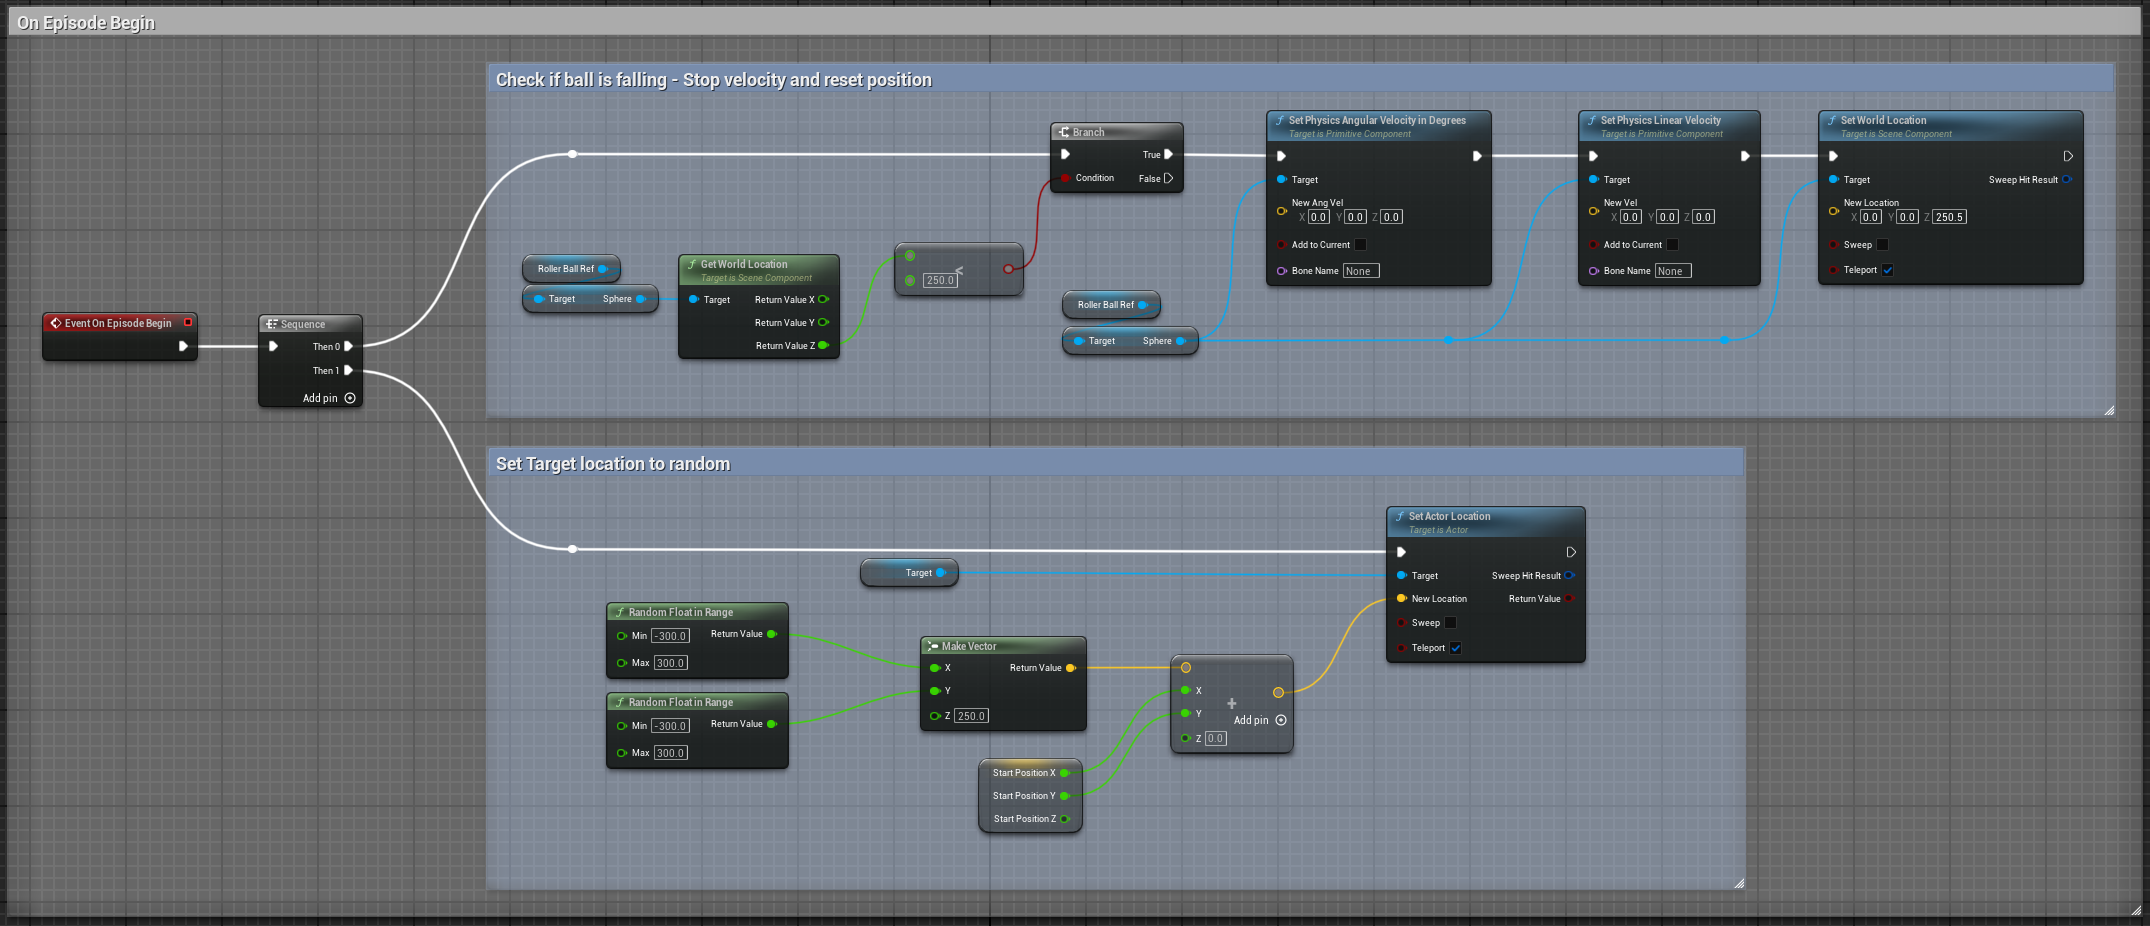
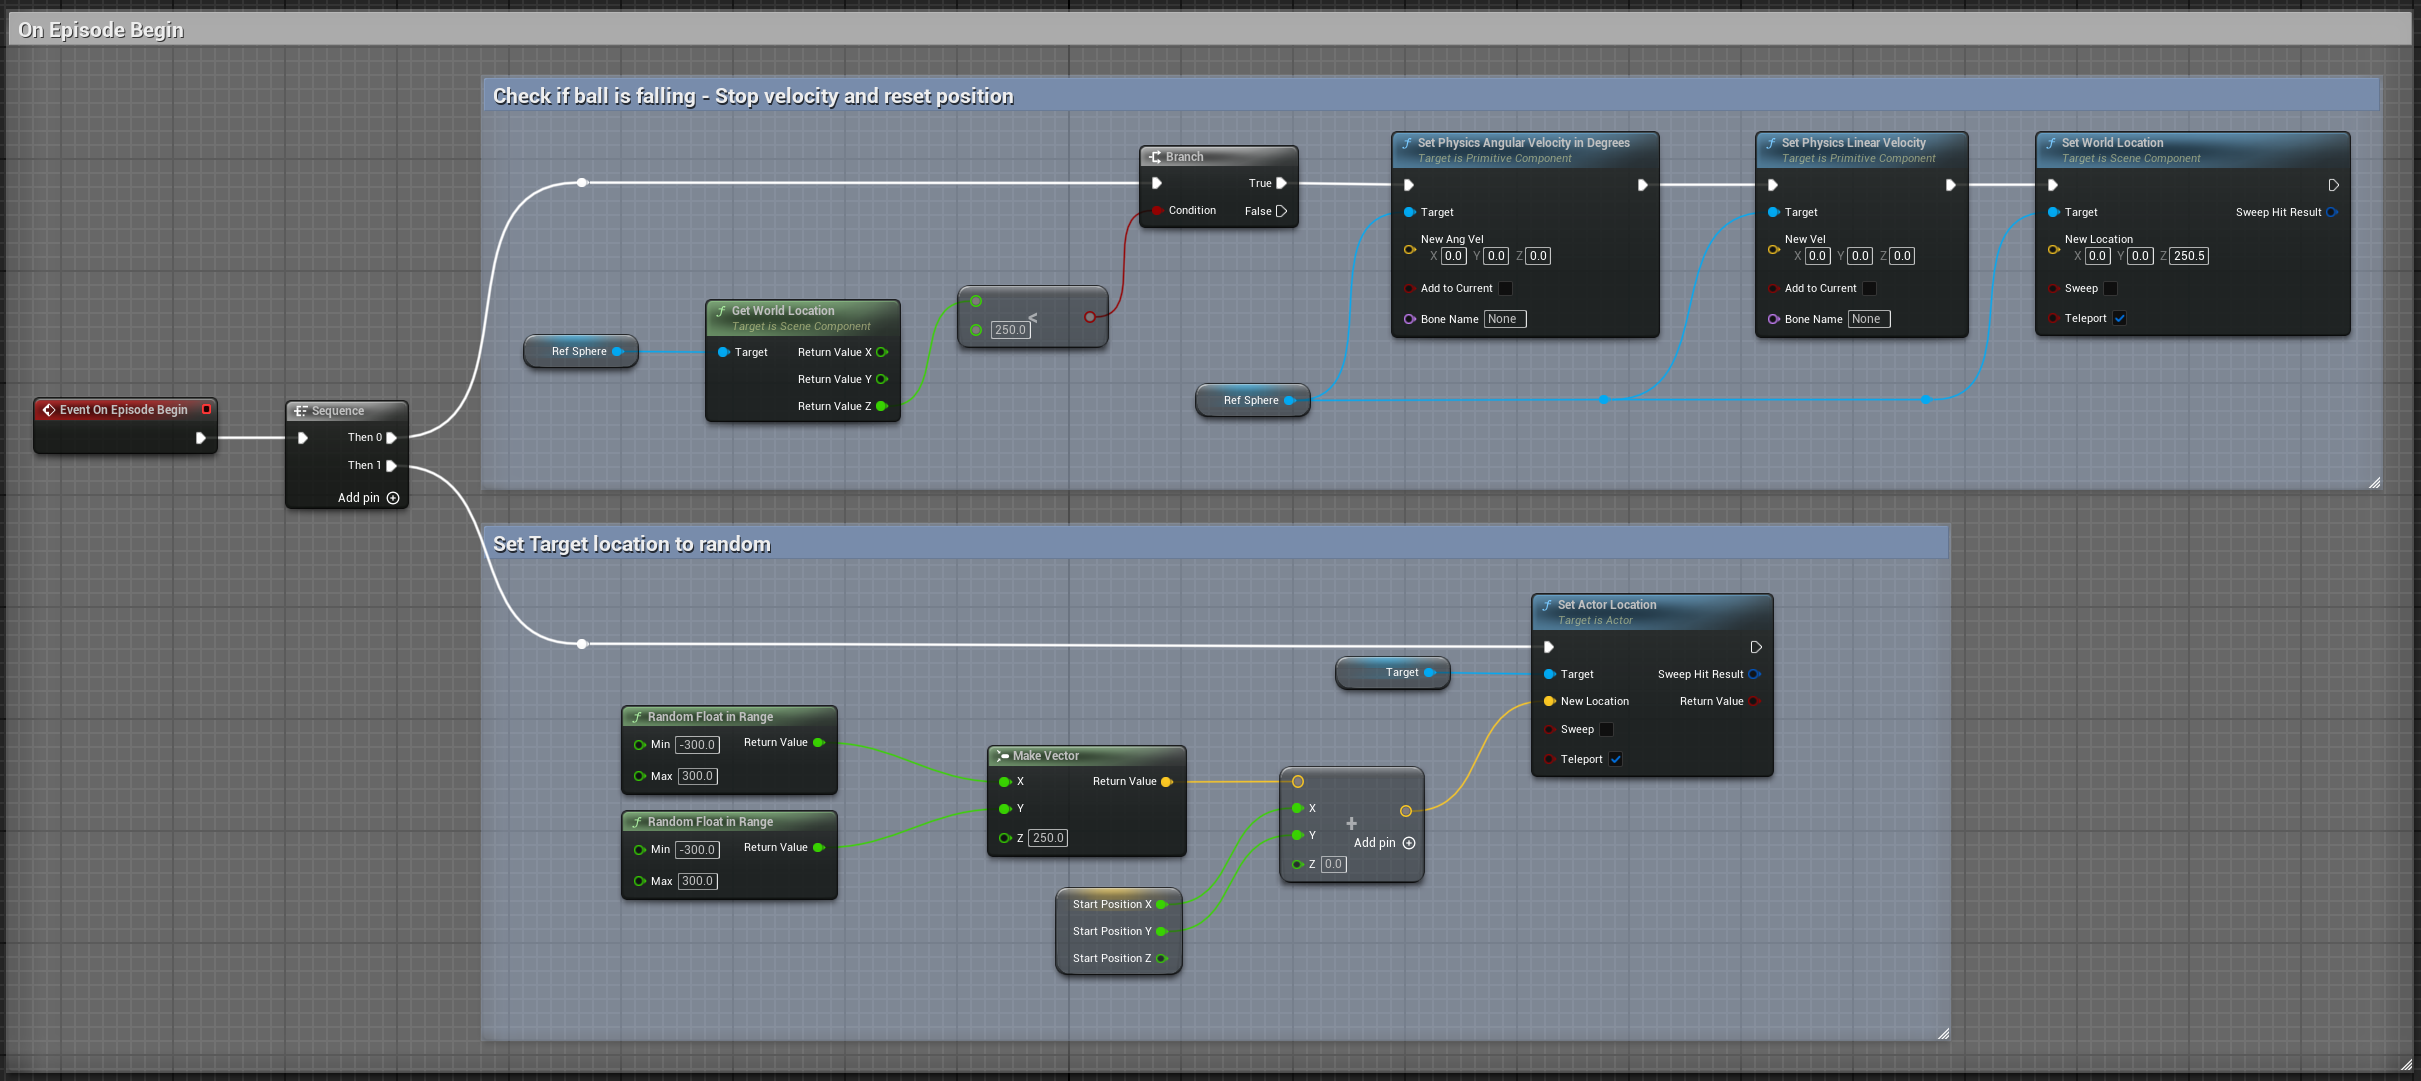
Set Roller ball  Sphere reference instead of BP_RollerBall Reference

diff --git a/Docs/intro/create-new-environment.rst b/Docs/intro/create-new-environment.rst
@@ -77,6 +77,8 @@ Add the Target Cube
    - Rotation: `(0, 0, 0)`
    - Scale: `(1, 1, 1)`
 
+4. Set the mobility to **Movable** under Transform.
+
 .. image:: _images/target_transform.png
    :alt: Target cube transform
 
@@ -233,9 +235,9 @@ Before we dig into the **OnEpisodeBegin** method, let's set up the references to
 
       In **Blueprint**, follow these steps to create and configure the necessary variables for the Agent Component:
 
-      1. **Create a Reference to BP_RollerBall**:
+      1. **Create a Reference to BP_RollerBall Sphere**:
          - In the **Variables** section of the Agent Component, click the **+ Variable** button.
-         - Set the variable type to `BP_RollerBall`.
+         - Set the variable type to `Static Mesh Component`.
 
       2. **Store the Start Position of the Sphere**:
          - Create a new variable of type `Vector`.
@@ -378,7 +380,7 @@ and understand its spatial relationship within the environment.
 
       **GetRelativePositionToStart()**:
 
-         1. Open the **BP_RollerBall** Blueprint.
+         1. Open the **BPC_RollerAgent** Blueprint.
          2. Create a new function named "GetRelativePositionToStart".
          3. Add Return Node with output type `Vector` named "Position"
 
@@ -494,8 +496,6 @@ restart the episode.
 OnActionReceived()
 ~~~~~~~~~~~~~~~~~~
 
-With the action and reward logic outlined above, the final version of OnActionReceived() looks like:
-
 .. tab-set::
 
    .. tab-item:: Blueprint
@@ -510,6 +510,8 @@ With the action and reward logic outlined above, the final version of OnActionRe
       As you can see this method use a ForceMultiplier variable to determine the force to apply to the sphere.
       ForceMultiplier must be set as Public in the Blueprint to be able to set it from the Inspector window.
       To do that, on the right side of the variable, click on the eye icon to make it public.
+      We can also set a default value to that variable. Click on the variable and on the detail panel on the right,
+      set the default value to 100.
 
       PositionX and PositionY are two variables that store the position of the sphere in the X and Y axis.
       These variables are local to the method and will be reset each time we call the method.
@@ -744,7 +746,7 @@ The process is the same as described in the :doc:`Getting Started Guide </intro/
             beta_schedule: constant
             epsilon_schedule: linear
           network_settings:
-            normalize: false
+            normalize: true
             hidden_units: 128
             num_layers: 2
           reward_signals:
